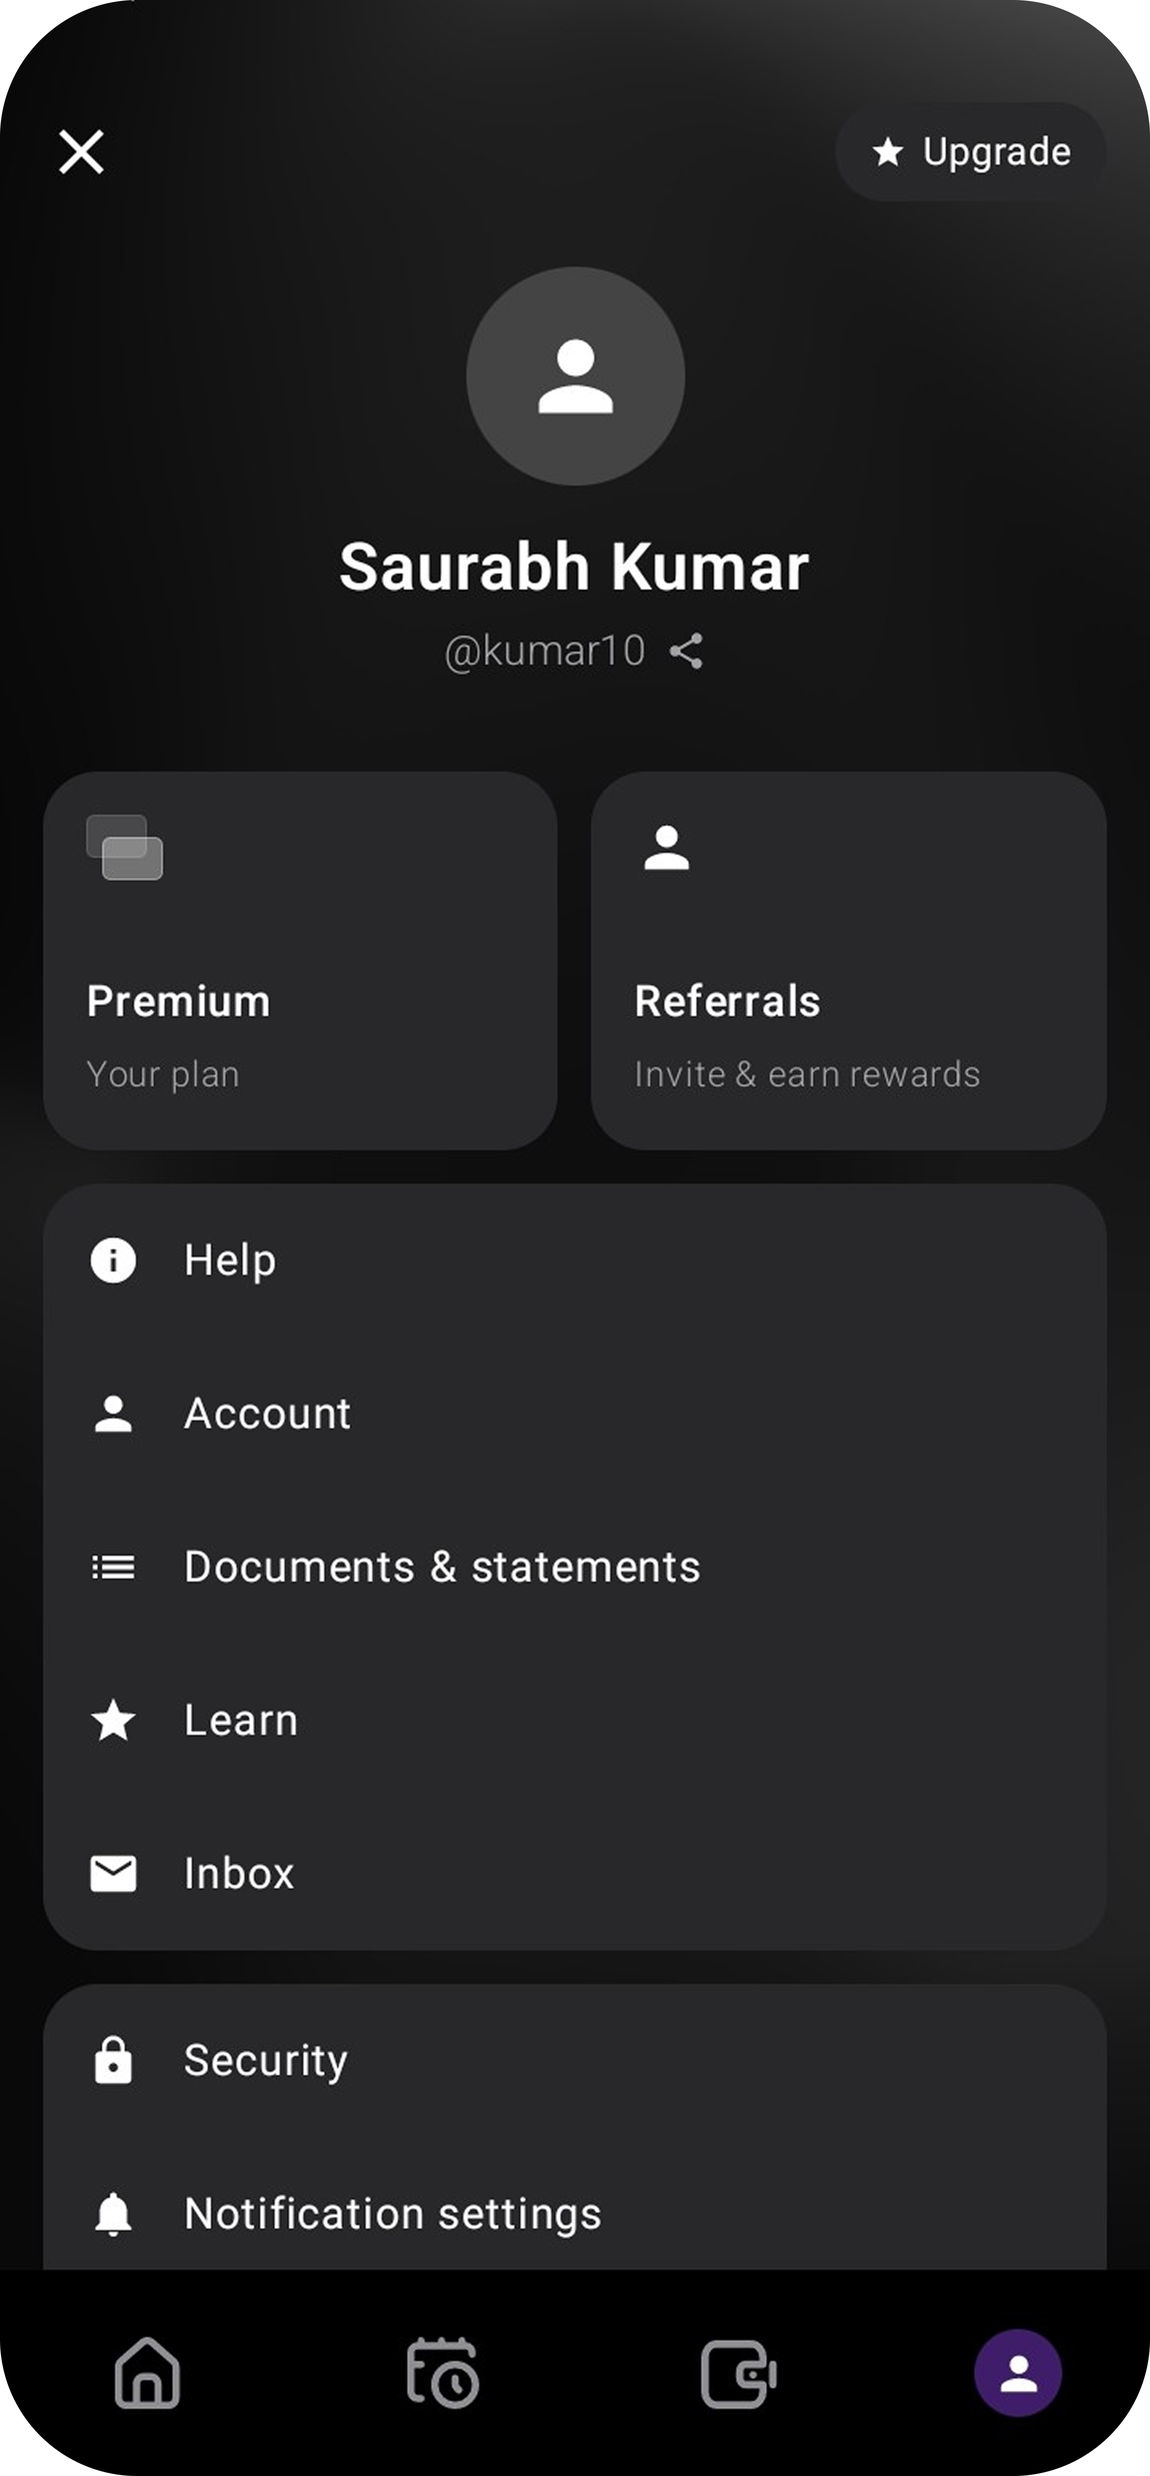
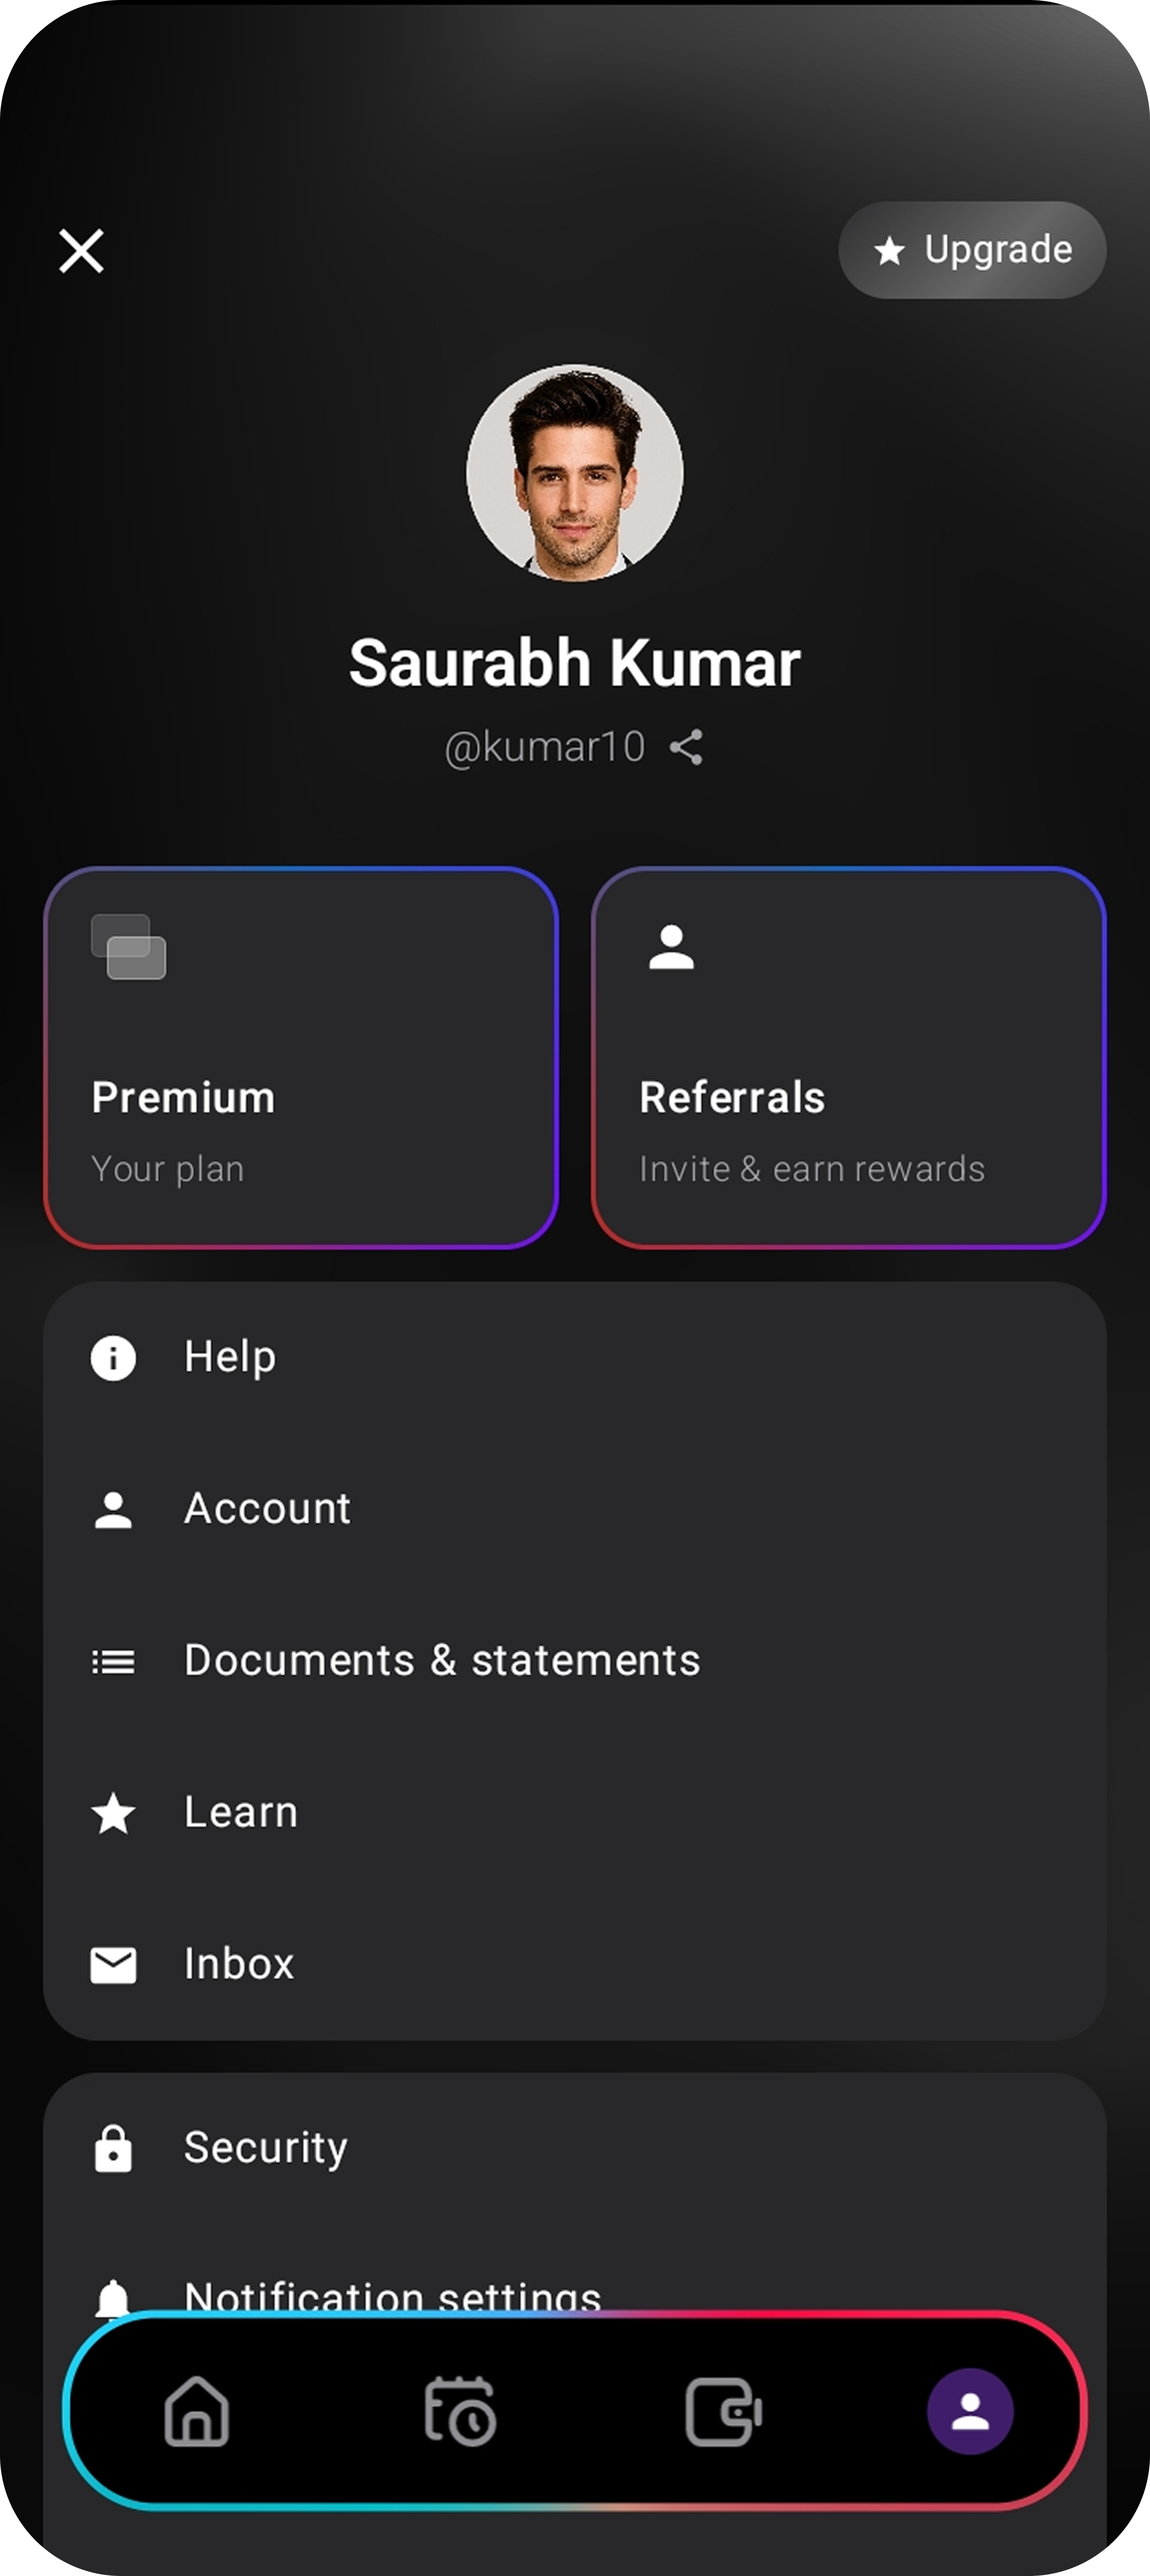
docs(assets): add high-res showcase screenshots for README documentation
Introduced 9 high-resolution UI captures to serve as the primary visual assets for the project's documentation.

🖼 Visual Assets Included:
- `screen_home_banner[1-5]`: Showcase of the infinite promotional carousel, highlighting metallic textures and Glassmorphism layering.
- `screen_cards` & `screen_history`: Demonstration of granular privacy masking and clean financial data layouts.
- `screen_profile` & `screen_menu_profile`: Captures of the new swipe-to-dismiss side menu and the real-user circular avatar integration.

These assets are strictly intended for the repository's showcase, elevating the GitHub presentation to demonstrate the true capabilities of this KMP frontend to recruiters and developers.

diff --git a/README.md b/README.md
@@ -90,7 +90,7 @@ Financial data readability and security are paramount. The UI features dynamic "
   &nbsp;&nbsp;
   <img src="docs/screen_history.png" width="250" alt="Historial de Transacciones"/>
   &nbsp;&nbsp;
-  <img src="docs/screen_send_money.png" width="250" alt="Transferencias Inteligentes"/>
+  <img src="docs/screen_seend_money.png" width="250" alt="Transferencias Inteligentes"/>
 </p>
 
 ---
